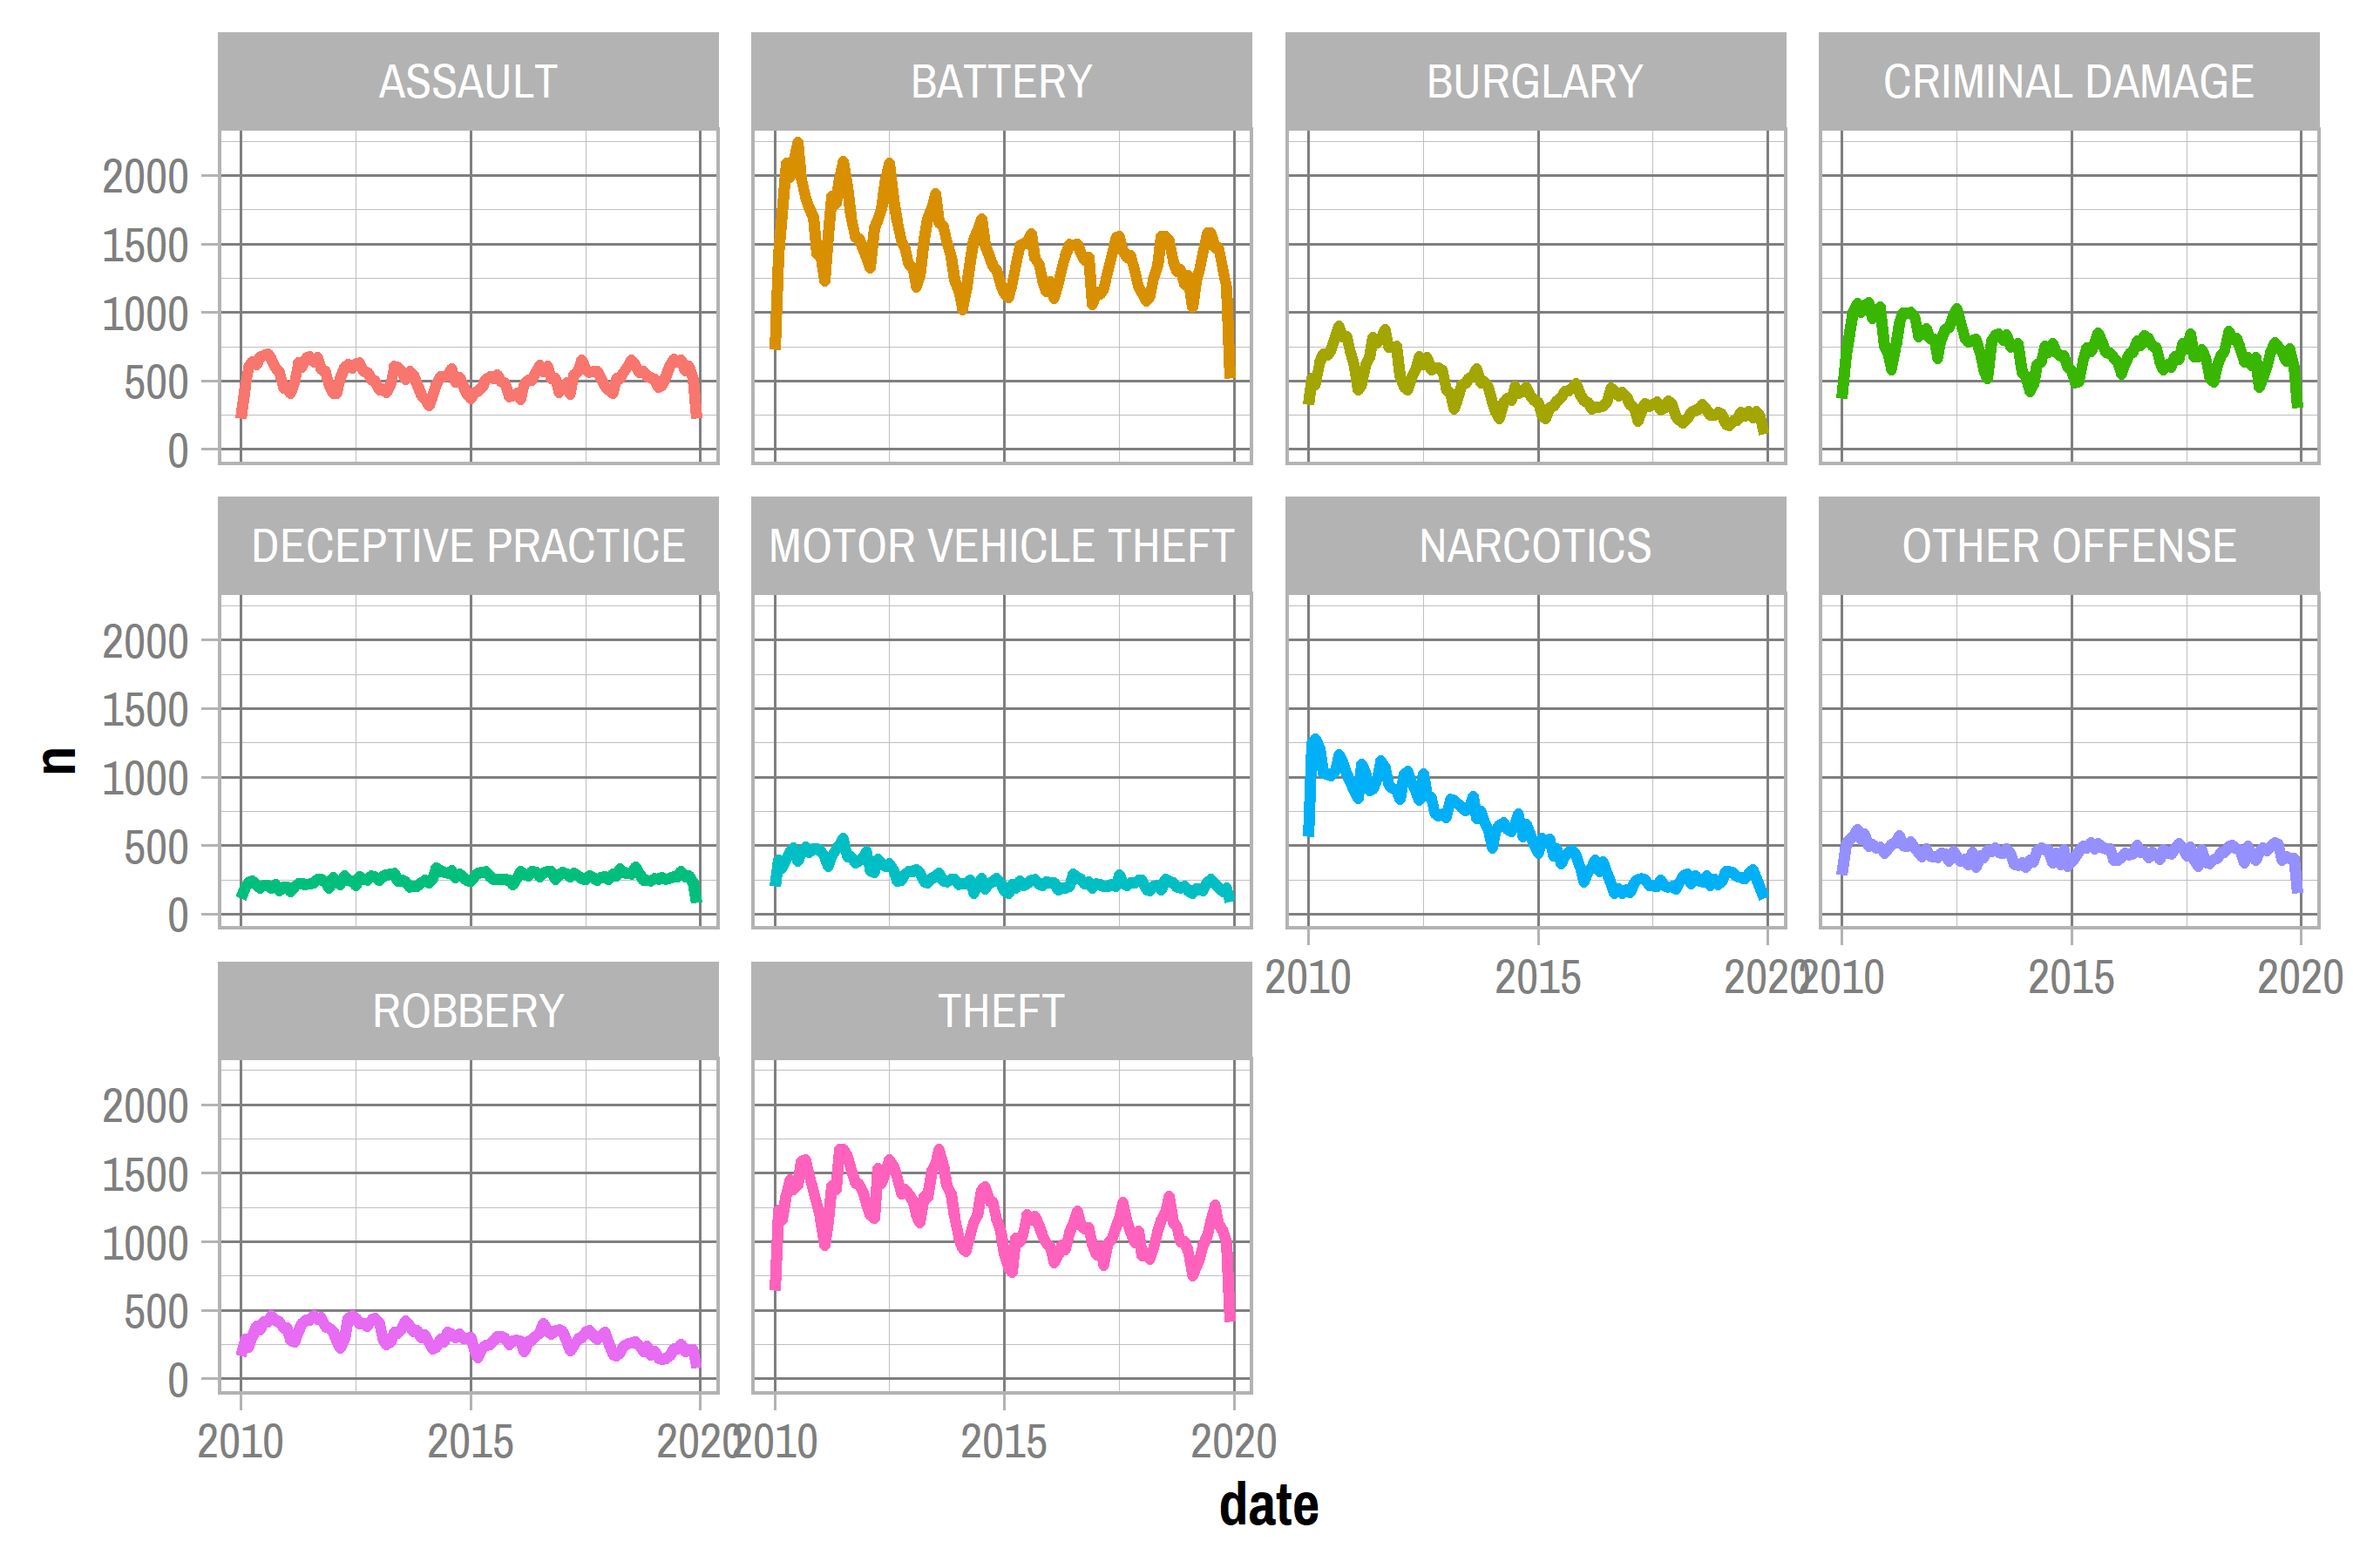
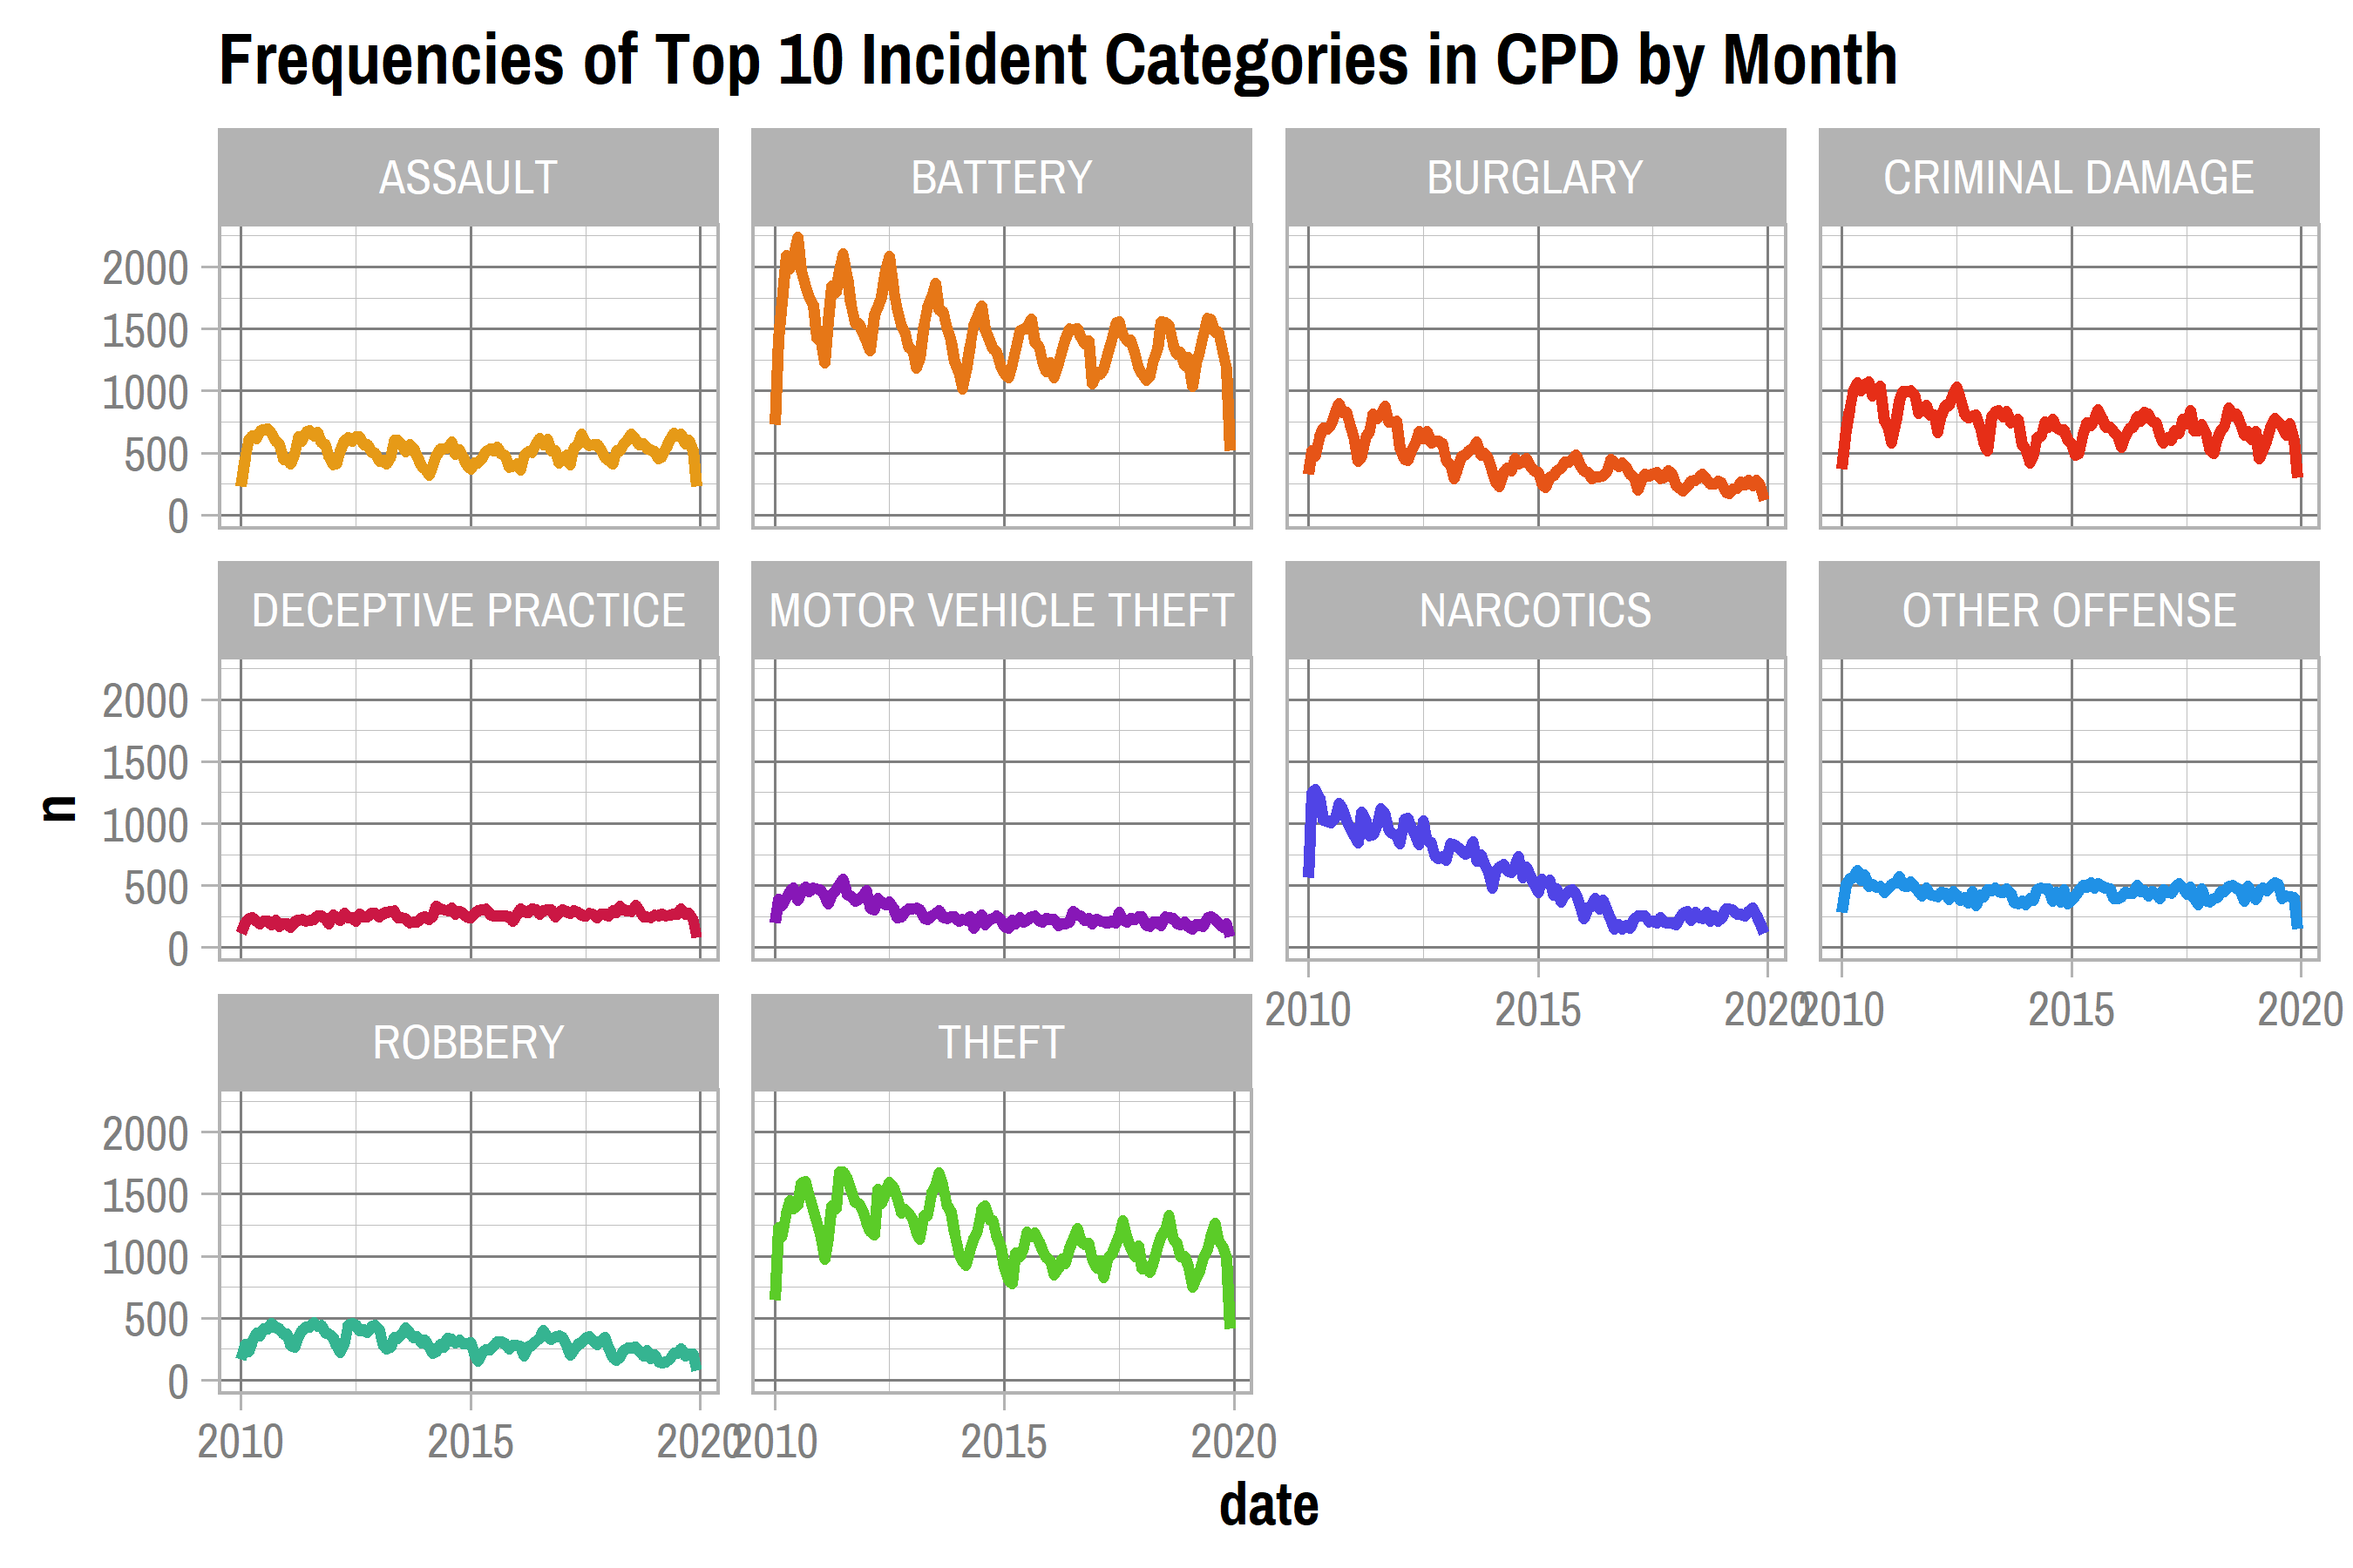
Labled Charts in EDA, added some tables to EDA

Changed region(s): [[0.0, 0.0, 0.9956, 0.8711]]

diff --git a/EDA/eda.md b/EDA/eda.md
@@ -142,7 +142,7 @@ incident_data %>% filter(!is.na(incident), incident %in% top_categories) %>% mut
 ![](eda_files/figure-gfm/inc-viz-other-2.png)<!-- -->
 
 ``` r
-incident_data %>% filter(!is.na(incident), year(reported) <= Sys.Date() %>% year()) %>% mutate(reported = round_date(reported, "month") %>% date()) %>% count(reported) %>% ggplot(aes(x = reported, y = n), group = 1) + geom_line(size = 2) + theme_day(base_family = "Pragati Narrow", base_size = 18) 
+incident_data %>% filter(!is.na(incident), year(reported) <= Sys.Date() %>% year()) %>% mutate(reported = round_date(reported, "month") %>% date()) %>% count(reported) %>% ggplot(aes(x = reported, y = n), group = 1) + geom_line(size = 2) + labs(title = "Frequencies of All Incident Categories in UCPD by Month") + theme_day(base_family = "Pragati Narrow", base_size = 18) 
 ```
 
 ![](eda_files/figure-gfm/inc-viz-other-3.png)<!-- -->
@@ -150,10 +150,44 @@ incident_data %>% filter(!is.na(incident), year(reported) <= Sys.Date() %>% year
 ``` r
 #top_categories = incident_data %>% filter(!is.na(incident)) %>% count(incident) %>% top_n(8, n) %>% .$incident
 
-incident_data %>% filter(!is.na(incident), incident %in% top_categories) %>% mutate(reported = round_date(reported, "month") %>% date()) %>% count(incident, reported) %>% ggplot(aes(x = reported, y = n, color = incident, group = incident)) + geom_line(size = 1.5) + facet_wrap(~ incident) + scale_fill_manual(values = color_pal(8)) + theme_day(base_family = "Pragati Narrow", base_size = 18) + hide_legend
+incident_data %>% filter(!is.na(incident), incident %in% top_categories) %>% mutate(reported = round_date(reported, "month") %>% date()) %>% count(incident, reported) %>% ggplot(aes(x = reported, y = n, color = incident, group = incident)) + geom_line(size = 1.5) + facet_wrap(~ incident) + scale_color_manual(values = color_pal(10)) + labs(title = "Frequencies of Top 10 Incident Categories in UCPD by Month") + theme_day(base_family = "Pragati Narrow", base_size = 18) + hide_legend 
 ```
 
 ![](eda_files/figure-gfm/inc-viz-other-4.png)<!-- -->
+
+``` r
+incident_data_analysis %>% filter(incident == "traffic violation") %>% mutate(reported = year(reported)) %>% count(reported) %>% arrange(reported) %>% kable(caption = "Number of Traffic Violations Reported by UCPD by Year") 
+```
+
+| reported |   n |
+| -------: | --: |
+|     2011 |  39 |
+|     2012 | 486 |
+|     2013 | 184 |
+|     2014 |   9 |
+|     2018 |   1 |
+|     2019 |   4 |
+
+Number of Traffic Violations Reported by UCPD by Year
+
+``` r
+incident_data %>% filter(is.na(incident)) %>% mutate(reported = year(reported)) %>% count(reported) %>% arrange(reported) %>% kable(caption = "Number of Uncategorized Incidents Reported by UCPD by Year") 
+```
+
+| reported |   n |
+| -------: | --: |
+|     2010 |  22 |
+|     2011 |  33 |
+|     2012 |  89 |
+|     2013 | 369 |
+|     2014 | 190 |
+|     2015 | 110 |
+|     2016 |  89 |
+|     2017 | 115 |
+|     2018 | 158 |
+|     2019 | 142 |
+
+Number of Uncategorized Incidents Reported by UCPD by Year
 
 ## CPD
 
@@ -265,7 +299,7 @@ cpd_crime_data %>% filter(!is.na(primary_type), primary_type %in% cpd_top_catego
 ![](eda_files/figure-gfm/crime-viz-other-2.png)<!-- -->
 
 ``` r
-cpd_crime_data %>% filter(!is.na(primary_type), year(date) <= Sys.Date() %>% year()) %>% mutate(date = round_date(date, "month") %>% date()) %>% count(date) %>% ggplot(aes(x = date, y = n), group = 1) + geom_line(size = 2) + theme_day(base_family = "Pragati Narrow", base_size = 18) 
+cpd_crime_data %>% filter(!is.na(primary_type), year(date) <= Sys.Date() %>% year()) %>% mutate(date = round_date(date, "month") %>% date()) %>% count(date) %>% ggplot(aes(x = date, y = n), group = 1) + geom_line(size = 2) + labs(title = "Frequencies of All Incident Categories in CPD by Month") + theme_day(base_family = "Pragati Narrow", base_size = 18) 
 ```
 
 ![](eda_files/figure-gfm/crime-viz-other-3.png)<!-- -->
@@ -273,7 +307,7 @@ cpd_crime_data %>% filter(!is.na(primary_type), year(date) <= Sys.Date() %>% yea
 ``` r
 #top_categories = incident_data %>% filter(!is.na(incident)) %>% count(incident) %>% top_n(8, n) %>% .$incident
 
-cpd_crime_data %>% filter(!is.na(primary_type), primary_type %in% cpd_top_categories) %>% mutate(date = round_date(date, "month") %>% date()) %>% count(primary_type, date) %>% ggplot(aes(x = date, y = n, color = primary_type, group = primary_type)) + geom_line(size = 1.5) + facet_wrap(~ primary_type) + scale_fill_manual(values = color_pal(8)) + theme_day(base_family = "Pragati Narrow", base_size = 18) + hide_legend
+cpd_crime_data %>% filter(!is.na(primary_type), primary_type %in% cpd_top_categories) %>% mutate(date = round_date(date, "month") %>% date()) %>% count(primary_type, date) %>% ggplot(aes(x = date, y = n, color = primary_type, group = primary_type)) + geom_line(size = 1.5) + facet_wrap(~ primary_type) + scale_color_manual(values = color_pal(10)) + labs(title = "Frequencies of Top 10 Incident Categories in CPD by Month") + theme_day(base_family = "Pragati Narrow", base_size = 18) + hide_legend
 ```
 
 ![](eda_files/figure-gfm/crime-viz-other-4.png)<!-- -->
